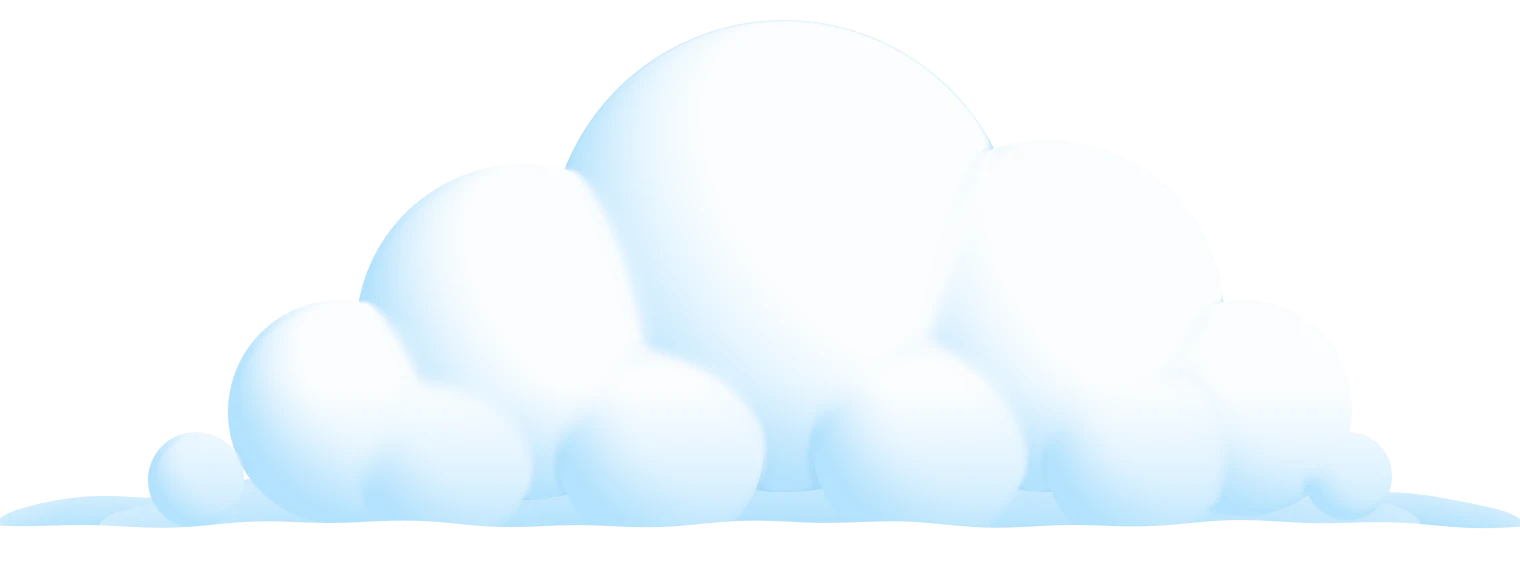
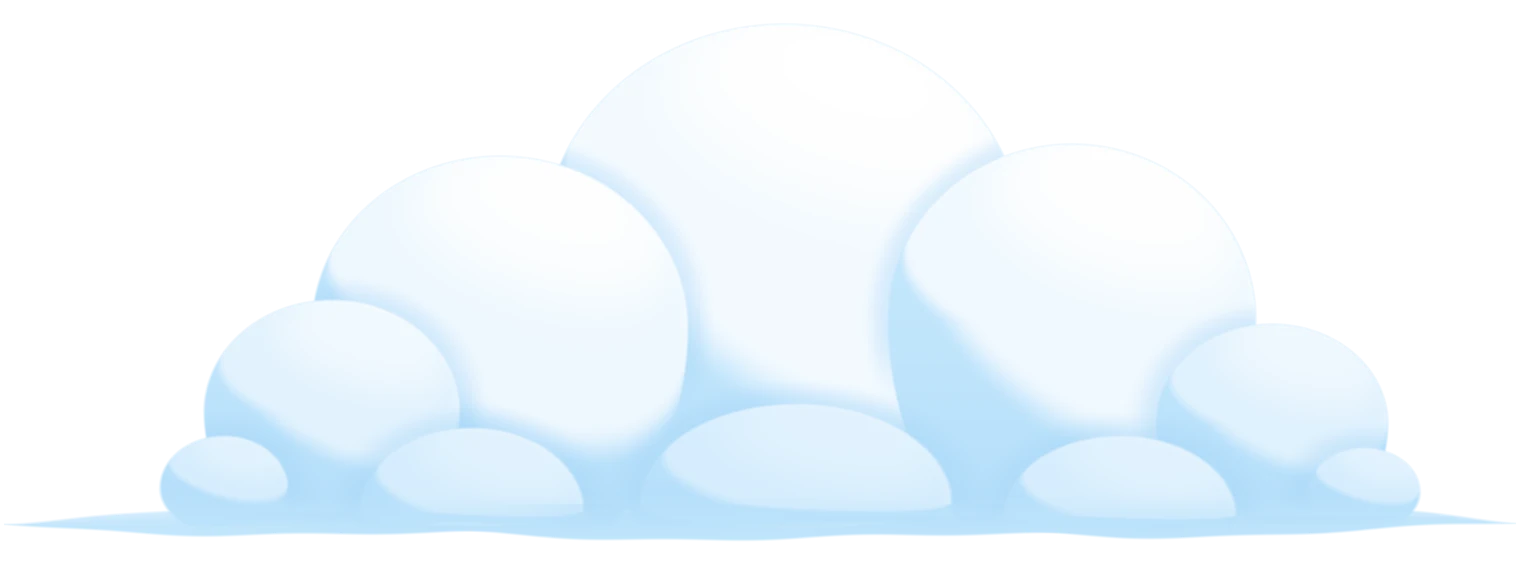
Repaint the equation cloud in the deck's cartoon cloud style
- tools/paint_cloud.py paints a dome of puffs with white caps, blue
  undersides and thin wisps, matching the deck background
- Same box, with the body wider where the equation sits
- The cloudburst still breaks it along its own puffs

diff --git a/js/script.js b/js/script.js
@@ -1432,7 +1432,7 @@ const Cloud = {
 
 // ---------- the cloud bursting: it comes apart into its own puffs ----------
 // The pieces are the cloud's own picture (cloud.webp) cut into canvases: each puff of tools/paint_cloud.py (PUFFS:
-// centre, radius, how far forward it sits; art px of the 760 × 281 picture, its OX included) less the puffs in front
+// centre, radius = the larger of its half width and height, its place back to front; art px of the 760 × 281 picture) less the puffs in front
 // of it, with a soft edge, so each piece is a soft lump of this very cloud; the flat blue base is cut into four
 // lengths. Each piece also has a blurred twin, so it can melt into mist as it goes. At the pop the pieces sit exactly
 // on the cloud and the cloud's picture lets go under them, so the swap never shows; they drift out from its middle
@@ -1440,8 +1440,8 @@ const Cloud = {
 // cloud is repainted, keep CLOUD_PUFFS in step with paint_cloud.py (another cloud still bursts, only not along its
 // own puffs).
 const CLOUD_ART = { w: 760, h: 281, x: -52, y: 10, base: 262, mid: [392, 186] }; // (.cl in #cloud's box; its flat underside; the burst's centre)
-const CLOUD_PUFFS = [[392, 128, 118, 0], [262, 166, 84, 22], [524, 158, 88, 22], [170, 206, 56, 40], [622, 204, 54, 40], [98, 240, 24, 52],
-  [674, 238, 22, 52], [222, 230, 44, 58], [330, 224, 52, 58], [460, 222, 54, 58], [568, 228, 46, 58]];
+const CLOUD_PUFFS = [[392, 122, 120, 0], [250, 164, 94, 1], [536, 160, 92, 2], [166, 206, 64, 3], [636, 212, 58, 4], [112, 244, 32, 5],
+  [682, 246, 28, 6], [236, 256, 56, 7], [398, 252, 78, 8], [560, 258, 58, 9]];
 const CloudBurst = {
   cl: null, wrap: null, bits: [], jobs: null, on: false,
   // The pieces are cut once, one piece at a time while the browser is idle, from when the play scene's pictures are

diff --git a/src/30_stage.js b/src/30_stage.js
@@ -590,7 +590,7 @@ const Cloud = {
 
 // ---------- the cloud bursting: it comes apart into its own puffs ----------
 // The pieces are the cloud's own picture (cloud.webp) cut into canvases: each puff of tools/paint_cloud.py (PUFFS:
-// centre, radius, how far forward it sits; art px of the 760 × 281 picture, its OX included) less the puffs in front
+// centre, radius = the larger of its half width and height, its place back to front; art px of the 760 × 281 picture) less the puffs in front
 // of it, with a soft edge, so each piece is a soft lump of this very cloud; the flat blue base is cut into four
 // lengths. Each piece also has a blurred twin, so it can melt into mist as it goes. At the pop the pieces sit exactly
 // on the cloud and the cloud's picture lets go under them, so the swap never shows; they drift out from its middle
@@ -598,8 +598,8 @@ const Cloud = {
 // cloud is repainted, keep CLOUD_PUFFS in step with paint_cloud.py (another cloud still bursts, only not along its
 // own puffs).
 const CLOUD_ART = { w: 760, h: 281, x: -52, y: 10, base: 262, mid: [392, 186] }; // (.cl in #cloud's box; its flat underside; the burst's centre)
-const CLOUD_PUFFS = [[392, 128, 118, 0], [262, 166, 84, 22], [524, 158, 88, 22], [170, 206, 56, 40], [622, 204, 54, 40], [98, 240, 24, 52],
-  [674, 238, 22, 52], [222, 230, 44, 58], [330, 224, 52, 58], [460, 222, 54, 58], [568, 228, 46, 58]];
+const CLOUD_PUFFS = [[392, 122, 120, 0], [250, 164, 94, 1], [536, 160, 92, 2], [166, 206, 64, 3], [636, 212, 58, 4], [112, 244, 32, 5],
+  [682, 246, 28, 6], [236, 256, 56, 7], [398, 252, 78, 8], [560, 258, 58, 9]];
 const CloudBurst = {
   cl: null, wrap: null, bits: [], jobs: null, on: false,
   // The pieces are cut once, one piece at a time while the browser is idle, from when the play scene's pictures are

diff --git a/index.html b/index.html
@@ -125,8 +125,8 @@ img{-webkit-user-drag:none;user-select:none}
    label, only the equation (the user removed "Find the value of x" on 19 Nov); at the end a small dark label
    (the same dark glass + gold ring as Skip and the caption) reads "Your score", under the cloud's top bump. The equation
    sits in the middle of the cloud's body (its centre of mass), always fitted inside the cloud (EqUI.maxW / maxH).
-   Measured on cloud.webp (tools/paint_cloud.py), in #cloud box px: the body is solid from x 108 to 548 below y 166,
-   down to its flat base at y 270; its middle is x 328 */
+   Measured on cloud.webp (tools/paint_cloud.py, repainted 25 Nov), in #cloud box px: the body is solid from x 112 to
+   570 below y 140 and from x 106 to 574 below y 160, down to its flat base at y 272; its middle is x 328 */
 #qCard{position:absolute;left:0;top:0;width:656px;height:0;pointer-events:none}
 #qTab{position:absolute;left:328px;top:80px;translate:-50% -50%;padding:7px 24px;border-radius:99px;background:var(--glass);box-shadow:0 0 0 3px #ffd23d,0 5px 12px rgba(20,10,60,.24);color:#fff;font-size:25px;line-height:1.2;letter-spacing:.01em;white-space:nowrap}
 #qTab:empty{display:none}

diff --git a/src/00_head.html b/src/00_head.html
@@ -121,8 +121,8 @@ img{-webkit-user-drag:none;user-select:none}
    label, only the equation (the user removed "Find the value of x" on 19 Nov); at the end a small dark label
    (the same dark glass + gold ring as Skip and the caption) reads "Your score", under the cloud's top bump. The equation
    sits in the middle of the cloud's body (its centre of mass), always fitted inside the cloud (EqUI.maxW / maxH).
-   Measured on cloud.webp (tools/paint_cloud.py), in #cloud box px: the body is solid from x 108 to 548 below y 166,
-   down to its flat base at y 270; its middle is x 328 */
+   Measured on cloud.webp (tools/paint_cloud.py, repainted 25 Nov), in #cloud box px: the body is solid from x 112 to
+   570 below y 140 and from x 106 to 574 below y 160, down to its flat base at y 272; its middle is x 328 */
 #qCard{position:absolute;left:0;top:0;width:656px;height:0;pointer-events:none}
 #qTab{position:absolute;left:328px;top:80px;translate:-50% -50%;padding:7px 24px;border-radius:99px;background:var(--glass);box-shadow:0 0 0 3px #ffd23d,0 5px 12px rgba(20,10,60,.24);color:#fff;font-size:25px;line-height:1.2;letter-spacing:.01em;white-space:nowrap}
 #qTab:empty{display:none}

diff --git a/tools/paint_cloud.py b/tools/paint_cloud.py
@@ -1,14 +1,18 @@
 # The equation cloud (assets/img/cloud.webp), painted in the style of the clouds in the user's deck picture
-# (art/background/new_background.png), so it reads as a cloud of that world and not a sticker laid on top:
-#   • the deck's cloud shape: one big dome in the middle, rounder puffs stepping down on each side, a flat base that
-#     runs out into thin wisps at both ends
-#   • the deck's colours, sampled from its clouds: white where the sun hits, a soft sky-blue (182,227,253) in the
-#     shade, and the base all in that blue
-#   • lit from the game's sun (top right, SUN in src/32_scenery.js): each puff is shaded as a soft sphere, and a puff
-#     in front throws a soft blue shade on the one behind it, as in the deck clouds
-#   • no outline; a clean, slightly soft edge; a touch of the sky's own blue mixed in (it is far away)
-# Its body is sized for the equation: in #cloud box px the equation's box (EqUI.maxW × maxH = 470 × 126, centred on
-# #eqBox 328,184) sits inside the cloud with a margin all round.
+# (art/background/new_background.png), so it reads as a cloud of that world and not a sticker laid on top.
+# Repainted 25 Nov 2026 (user: "fix the cloud… it should look good"): the old one was a stack of airbrushed round
+# balls on a flat plate. This one follows the deck clouds closely:
+#   • shape: one big dome (a little wider than tall) just right of the middle, puffs of different sizes stepping down
+#     on each side, a flat underside that runs out into long thin wisps with pointed tips at both ends
+#   • colour: two-tone, like the deck clouds: a bright white cap on each puff where the sun hits (top right, the
+#     game's SUN in src/32_scenery.js), a soft sky-blue below it, a clean soft step between the two (not airbrushed)
+#   • depth: the puffs overlap, back to front; each front puff casts a soft blue shade on the puff behind it, so its
+#     edge shows as a light scallop on blue, as in the deck clouds. The lower front puffs are blue with a light lip
+#   • no outline; a clean edge; the shade keeps a touch of the sky's own blue (it is far away)
+# Its body is sized for the equation: in #cloud box px the equation's box (EqUI.maxW × maxH = 440 × 124, centred on
+# #eqBox 328,178) sits inside the cloud; tools check: it prints the solid span of each row.
+# The puffs' list is mirrored (as circles) by CLOUD_PUFFS in src/30_stage.js, which cuts the cloudburst's pieces.
+# Then re-run tools/cloud_rim.py on the new picture (its warm rim light is laid exactly over it).
 # Run: ~/.cache/bj-voices/venv/bin/python tools/paint_cloud.py [out.webp]   (Pillow + numpy + scipy; cwebp on PATH)
 import os
 import subprocess
@@ -23,92 +27,123 @@ ROOT = os.path.dirname(os.path.dirname(os.path.abspath(__file__)))
 OUT = sys.argv[1] if len(sys.argv) > 1 else os.path.join(ROOT, 'assets', 'img', 'cloud.webp')
 
 W, H = 760, 281      # the art's box (#cloud .cl in src/00_head.html), in art px
-OX = 62              # the body is laid out in the old 636-wide box; the wisps run out 62 px past it each side
 S = 2                # saved at 2× (sharp on retina)
 SS = 3               # supersampling for clean edges
 K = S * SS
 BASE = 262           # the flat underside (art px from the top of the box)
 
-LIGHT = np.array([253, 254, 255], np.float32)   # sunlit white
-MID = np.array([232, 246, 254], np.float32)
-SHADE = np.array([182, 227, 253], np.float32)   # the deck clouds' shade
-DEEP = np.array([160, 212, 248], np.float32)    # where a puff is tucked behind another
+# the deck clouds' colours (sampled from art/background/new_background_2x.png)
+LIGHT = np.array([255, 255, 255], np.float32)   # sunlit white
+CAP = np.array([244, 250, 255], np.float32)     # the white cap away from its brightest spot
+LOWCAP = np.array([216, 238, 253], np.float32)  # the cap of a puff low in the cloud (it gets less sun)
+SHADE = np.array([196, 230, 252], np.float32)   # the soft blue of the shaded side
+DEEP = np.array([168, 214, 248], np.float32)    # tucked in under a puff in front
 SKY = np.array([30, 172, 253], np.float32)      # the sky behind it (bg_sky near the cloud)
-SUN = np.array([0.62, -0.50, 0.60]); SUN /= np.linalg.norm(SUN)  # from the top right, toward the viewer
+SUN = np.array([0.30, -0.78, 0.55]); SUN /= np.linalg.norm(SUN)  # from the top right, toward the viewer (y down)
 
-# puffs: centre x, y, radius (art px), and how far forward each sits (art px toward the viewer). The dome is at the
-# back; the lower puffs sit in front of it, so where they meet there is a soft crease, as in the deck clouds.
+# puffs, back to front: centre x, y, half width, half height (art px). The dome is at the back; each later puff sits
+# in front of the ones before it.
 PUFFS = [
-    (330, 128, 118, 0),                             # the dome
-    (200, 166, 84, 22), (462, 158, 88, 22),         # the big puffs either side of it
-    (108, 206, 56, 40), (560, 204, 54, 40),         # the shoulders
-    (36, 240, 24, 52), (612, 238, 22, 52),          # small puffs where the wisps begin
-    (160, 230, 44, 58), (268, 224, 52, 58), (398, 222, 54, 58), (506, 228, 46, 58),  # low puffs in front
+    (392, 122, 120, 110),                         # the dome
+    (250, 164, 94, 86), (536, 160, 92, 88),       # the big puffs either side of it
+    (166, 206, 64, 56), (636, 212, 58, 50),       # the shoulders
+    (112, 244, 32, 26), (682, 246, 28, 22),       # small puffs where the wisps begin
+    (236, 256, 56, 42), (398, 252, 78, 50),       # low puffs in front, sunk in the body: only their tops show
+    (560, 258, 58, 40),
 ]
-PUFFS = [(x + OX, y, r, z) for (x, y, r, z) in PUFFS]
-# the flat base and its wisps: centre x, half width, half height (ellipses sitting on BASE)
-WISPS = [(318 + OX, 330, 30), (64, 66, 15), (W - 60, 62, 15), (150, 104, 22), (W - 146, 100, 22)]
+# the wisps along the flat underside: from x0 to x1, how thick in the middle; they lie behind the puffs
+WISPS = [(2, 330, 17), (430, 758, 16), (120, 640, 24)]
 
 h, w = H * K, W * K
 yy, xx = np.mgrid[0:h, 0:w].astype(np.float32)
 X = (xx + 0.5) / K; Y = (yy + 0.5) / K  # art px
+del xx, yy
 # a gentle wave on the flat underside, so it is not ruler-straight
-base_y = BASE + 1.4 * np.sin(X / 37.0) + 0.8 * np.sin(X / 13.0 + 1.3)
-below = Y > base_y
-edge = 1.5 / K  # AA width (art px)
+base_y = BASE + 1.2 * np.sin(X / 41.0) + 0.6 * np.sin(X / 15.0 + 1.3)
+EDGE = 1.3  # anti-alias width (art px)
 
 
-def soft_in(d):  # d = signed distance in art px (+ inside) -> coverage 0..1
-    return np.clip(d / edge + 0.5, 0, 1)
+def smooth(e0, e1, v):
+    t = np.clip((v - e0) / (e1 - e0), 0, 1)
+    return t * t * (3 - 2 * t)
 
 
-# 1) the puffs as one surface: each puff is a sphere pushed forward by its offset; the surface is their smooth
-#    maximum, so puffs melt into each other with a soft crease where they meet
-SOFT = 6.0
-acc = np.zeros((h, w), np.float32); cov = np.zeros((h, w), np.float32)
-zs = []
-for (cx, cy, r, zo) in PUFFS:
-    d2 = (X - cx) ** 2 + (Y - cy) ** 2
-    z = np.sqrt(np.clip(r * r - d2, 0, None)) + zo
-    z = np.where(d2 < r * r, z, -1e3)
-    zs.append(z)
-    cov = np.maximum(cov, soft_in(r - np.sqrt(d2)))
-Z = np.stack(zs); zmax = Z.max(0)
-Zs = zmax + SOFT * np.log(np.exp((Z - zmax) / SOFT).sum(0))
-del Z, zs
-inside = zmax > -1e2
-Zs = np.where(inside, Zs, 0)
-# normals from the surface (in art px), smoothed a little so creases stay soft
-Zb = nd.gaussian_filter(Zs, 1.2 * K)
-gy, gx = np.gradient(Zb, 1.0 / K)
-n = np.stack([-gx, -gy, np.ones_like(gx)]); n /= np.linalg.norm(n, axis=0)
-d = n[0] * SUN[0] + n[1] * SUN[1] + n[2] * SUN[2]
-t = np.clip((d + 0.42) / 1.05, 0, 1); t = t * t * (3 - 2 * t)
-# creases: where the surface dips between puffs, a soft blue shade (the deck clouds' tucked-in shade)
-crease = np.clip((nd.gaussian_filter(Zs, 5 * K) - Zs) / 14.0, 0, 1) * inside
-# lower in the cloud = more in its own shade (its underside is blue in the deck clouds)
-low = np.clip((Y - (BASE - 72)) / 72, 0, 1) ** 1.2
-t = t * (1 - 0.68 * low)
-col = SHADE + (LIGHT - SHADE) * t[..., None]
-col = col + (DEEP - col) * (0.55 * crease)[..., None]
-cov = cov * (~below)
+def over(col, cov, c2, a2):  # paint colour c2 with coverage a2 over (col, cov)
+    col += (c2 - col) * a2[..., None]
+    cov += (1 - cov) * a2
+    return col, cov
 
-# 2) the flat base and its wisps, under the puffs: the deck clouds' light-blue band
-for (cx, hw, hh) in WISPS:
-    dx = (X - cx) / hw
-    top = base_y - hh * np.sqrt(np.clip(1 - dx ** 2, 0, 1))
-    dd = np.where(np.abs(dx) < 1, np.minimum(Y - top, base_y - Y), -1)
-    c = soft_in(dd) * (np.abs(dx) < 1)
-    tt = np.clip((Y - top) / (hh + 1e-3), 0, 1)
-    bc = SHADE + (MID - SHADE) * (0.6 * (1 - tt))[..., None]
-    fresh = c * (1 - cov)
-    col = np.where(cov[..., None] > 0.5, col, col * (1 - fresh[..., None]) + bc * fresh[..., None])
-    col = np.where((cov[..., None] <= 0.5) & (c[..., None] > 0), bc, col)
-    cov = np.maximum(cov, c)
+
+col = np.zeros((h, w, 3), np.float32) + SHADE
+cov = np.zeros((h, w), np.float32)
+
+# 1) the wisps, behind everything: a thin lens on the underside, pointed at both ends, its tips lifting a little
+for (x0, x1, th) in WISPS:
+    cx, hw = (x0 + x1) / 2, (x1 - x0) / 2
+    u = (X - cx) / hw
+    inn = np.abs(u) < 1
+    prof = np.clip(1 - u * u, 0, 1) ** 1.25 * th          # thickness along it (0 at the tips)
+    mid = base_y + 2.5 - 3.0 * u * u                        # its centre line (the tips curl up a touch)
+    top, bot = mid - prof * 0.8, mid + prof * 0.2
+    d = np.minimum(Y - top, bot - Y)
+    a = np.clip(d / EDGE + 0.5, 0, 1) * inn
+    tt = np.clip((Y - top) / (prof + 1e-3), 0, 1)           # 0 on its top edge, 1 at its bottom
+    c = SHADE + (CAP - SHADE) * (0.75 * (1 - tt) ** 2)[..., None]
+    col, cov = over(col, cov, c, a)
+
+# 2) the puffs, back to front. A puff is round on top; below its middle its sides curve in much more gently and run
+#    down into the flat underside (an egg with its bottom cut flat), so no puff shows a round bottom: under their tops
+#    the puffs melt into one body, as in the deck clouds. Down that body every puff turns the same soft blue, so only
+#    the tops of the puffs show, as light scallops
+def body(Yv):  # the one blue of the cloud's body at height Yv: lighter higher up
+    k = smooth(150, BASE, Yv)[..., None]
+    return SHADE + (DEEP - SHADE) * (0.35 * k)
+
+
+for i, (cx, cy, rx, ry) in enumerate(PUFFS):
+    u = (X - cx) / rx
+    bot = max(BASE - cy, 1) * 1.25                       # the lower half's depth (it reaches the underside)
+    v = np.where(Y < cy, (Y - cy) / ry, (Y - cy) / bot)
+    r2 = u * u + v * v
+    rr = np.sqrt(r2)
+    # signed distance to the edge, in art px (close enough for a soft edge)
+    dist = (1 - rr) * np.where(Y < cy, min(rx, ry), min(rx, bot))
+    a = np.clip(dist / EDGE + 0.5, 0, 1) * smooth(-EDGE, EDGE, base_y - Y)  # cut flat on the underside
+    if not a.any():
+        continue
+    # a front puff's soft shade on what is behind it, just outside its top edge
+    if i > 0:
+        sh = smooth(14, 0, -dist) * (dist < 0.5) * cov * smooth(cy + 0.55 * ry, cy + 0.05 * ry, Y)
+        col += (DEEP - col) * (0.38 * sh)[..., None]
+    # its shading as a soft dome, lit from the top right (the lower half's normal turns down slowly)
+    vv = np.where(Y < cy, v, v * 0.7)
+    nz = np.sqrt(np.clip(1 - u * u - vv * vv, 0, 1)) * 1.1
+    n = np.stack([u, vv, nz]); n /= np.linalg.norm(n, axis=0) + 1e-6
+    lit = n[0] * SUN[0] + n[1] * SUN[1] + n[2] * SUN[2]
+    # how high the puff sits in the cloud: low puffs get a paler cap
+    low = np.clip((cy - 150) / 90, 0, 1)
+    cap = CAP + (LOWCAP - CAP) * low
+    hi = smooth(0.55, 0.95, lit)[..., None] * (1 - 0.75 * low)   # the brightest spot, toward the sun
+    capc = cap + (LIGHT - cap) * hi
+    # the step from the white cap to the blue, as in the deck clouds: the white runs right up to the puff's top edge,
+    # the blue lies under it along a smile-shaped line (a little lower on the sun's side); soft but clear. It sits
+    # higher on puffs low in the cloud
+    nz0 = np.sqrt(np.clip(1 - u * u - vv * vv, 0, 1))
+    score = 0.7 * (-vv) + 0.2 * u + 0.35 * nz0 - 0.12 - 0.12 * low
+    t = smooth(-0.06, 0.06, score)
+    c = body(Y) + (capc - body(Y)) * t[..., None]
+    # a thin light lip on the edge that faces the sun (the deck clouds' scallops read by it)
+    lip = smooth(4, 0, dist) * (dist > -0.5) * smooth(0.0, 0.5, n[0] * 0.55 - n[1] * 0.85) * (Y < cy)
+    c += (LIGHT - c) * ((0.3 - 0.18 * low) * lip)[..., None]
+    col, cov = over(col, cov, c, a)
+
+# 3) the flat underside: a soft blue band the last few px above it, so the bottom of every puff reads as one base
+band = smooth(BASE - 16, BASE - 1, Y) * cov
+col += (SHADE - col) * (0.55 * band)[..., None]
 
 # far away: a touch of the sky's blue in the shade
-lum = (col.mean(-1, keepdims=True) - 160) / 95
-col = col + (SKY - col) * (0.05 * (1 - np.clip(lum, 0, 1)))
+lum = (col.mean(-1, keepdims=True) - 170) / 85
+col += (SKY - col) * (0.045 * (1 - np.clip(lum, 0, 1)))
 
 # downsample (premultiplied) to the saved size
 pm = np.concatenate([col * cov[..., None], cov[..., None] * 255], -1)
@@ -116,6 +151,12 @@ pm = pm.reshape(H * S, SS, W * S, SS, 4).mean((1, 3))
 a = pm[..., 3:] / 255
 rgb = np.where(a > 1e-4, pm[..., :3] / np.maximum(a, 1e-4), 0)
 img = np.concatenate([np.clip(rgb, 0, 255), np.clip(pm[..., 3:], 0, 255)], -1).astype(np.uint8)
+
+# where the equation goes: the solid span of each row (art px), to check against #eqBox / EqUI.maxW, maxH
+al = img[..., 3] / 255.0
+for y in range(90, 261, 20):
+    xs = np.where(al[int(y * S)] > 0.98)[0]
+    print('row', y, 'solid', (round(xs.min() / S), round(xs.max() / S)) if len(xs) else None)
 
 with tempfile.TemporaryDirectory() as td:
     png = os.path.join(td, 'cloud.png')
